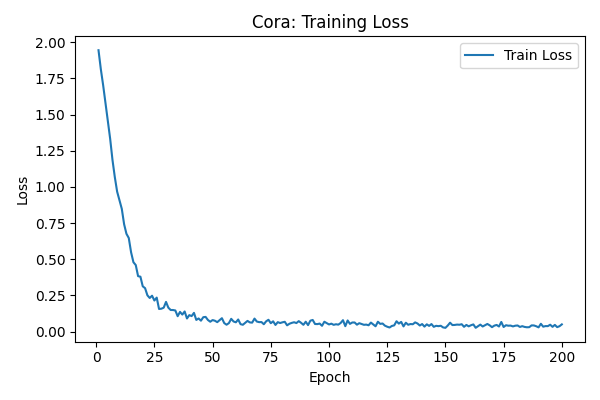
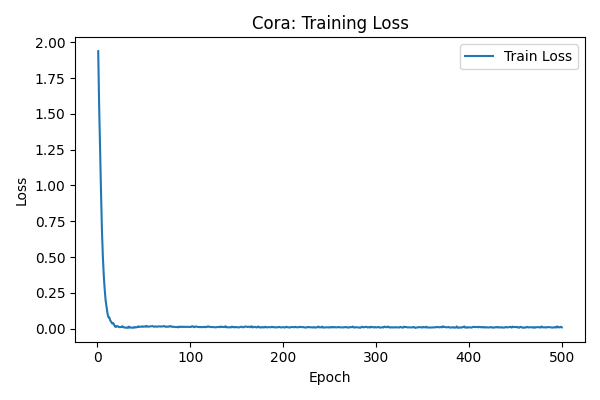
Model Tweaks + Metrics

diff --git a/script/stage_5_code/script_gcn_train.py b/script/stage_5_code/script_gcn_train.py
@@ -61,6 +61,7 @@ import torch.nn as nn
 import torch.optim as optim
 from scipy import sparse
 import matplotlib.pyplot as plt
+from sklearn.metrics import accuracy_score, precision_recall_fscore_support
 
 
 # ─────────────────────────────────────────────────────────────────────
@@ -156,6 +157,9 @@ def train_and_evaluate(
         ],
         lr=learning_rate
     )
+    # scheduler = torch.optim.lr_scheduler.ReduceLROnPlateau(
+    #     optimizer, mode="max", factor=0.5, patience=20
+    # )
 
     # 4) Training loop
     train_loss_history = []
@@ -178,6 +182,7 @@ def train_and_evaluate(
             val_pred   = val_logits[idx_val].max(1)[1]
             correct_val = val_pred.eq(labels[idx_val]).sum().item()
             acc_val     = correct_val / idx_val.shape[0]
+            # scheduler.step(acc_val)
 
         train_loss_history.append(loss.item())
         val_acc_history.append(acc_val)
@@ -192,16 +197,89 @@ def train_and_evaluate(
                 f"Train Loss: {loss.item():.4f} | Val  Acc: {acc_val:.4f}"
             )
 
-    # 5) Load best‐performing weights and evaluate on test set
     model.load_state_dict(best_state)
     model.eval()
     with torch.no_grad():
+        # **ADD THIS**: run the model to get logits on all nodes
         test_logits = model(X_t, A_norm_t)
-        test_pred   = test_logits[idx_test].max(1)[1]
-        correct_test = test_pred.eq(labels[idx_test]).sum().item()
-        test_acc    = correct_test / idx_test.shape[0]
+
+        # now slice out the test‐set predictions
+        test_pred = test_logits[idx_test].max(1)[1]
+        true_test = labels[idx_test]  # ground‐truth labels for the test split
+
+        # 1) Accuracy
+        test_acc = accuracy_score(
+            true_test.cpu().numpy(),
+            test_pred.cpu().numpy()
+        )
+
+        # 2) Weighted precision/recall/F1
+        precision_w, recall_w, f1_w, _ = precision_recall_fscore_support(
+            true_test.cpu().numpy(),
+            test_pred.cpu().numpy(),
+            average="weighted",
+            zero_division=0
+        )
+
+        # 3) Macro precision/recall/F1
+        precision_m, recall_m, f1_m, _ = precision_recall_fscore_support(
+            true_test.cpu().numpy(),
+            test_pred.cpu().numpy(),
+            average="macro",
+            zero_division=0
+        )
+
+        # 4) Micro precision/recall/F1
+        precision_i, recall_i, f1_i, _ = precision_recall_fscore_support(
+            true_test.cpu().numpy(),
+            test_pred.cpu().numpy(),
+            average="micro",
+            zero_division=0
+        )
+
 
     print(f"\n→ [{dataset_name.upper()}] Final Test Accuracy: {test_acc:.4f}\n")
+
+    # Build a simple metrics dict
+    metrics = {
+        "accuracy": test_acc,
+        "weighted": {
+            "precision": precision_w,
+            "recall": recall_w,
+            "f1": f1_w
+        },
+        "macro": {
+            "precision": precision_m,
+            "recall": recall_m,
+            "f1": f1_m
+        },
+        "micro": {
+            "precision": precision_i,
+            "recall": recall_i,
+            "f1": f1_i
+        }
+    }
+
+    # Print out all the requested stats
+    print("************ Overall Performance ************")
+    print(f"Accuracy: {metrics['accuracy']:.4f}\n")
+
+    print("Weighted Metrics:")
+    print(f"Precision: {metrics['weighted']['precision']:.4f}")
+    print(f"Recall:    {metrics['weighted']['recall']:.4f}")
+    print(f"F1-score:  {metrics['weighted']['f1']:.4f}\n")
+
+    print("Macro Metrics:")
+    print(f"Precision: {metrics['macro']['precision']:.4f}")
+    print(f"Recall:    {metrics['macro']['recall']:.4f}")
+    print(f"F1-score:  {metrics['macro']['f1']:.4f}\n")
+
+    print("Micro Metrics:")
+    print(f"Precision: {metrics['micro']['precision']:.4f}")
+    print(f"Recall:    {metrics['micro']['recall']:.4f}")
+    print(f"F1-score:  {metrics['micro']['f1']:.4f}\n")
+
+    print("************ Finish ************")
 
     # 6) Plot + save learning curves
     epochs = np.arange(1, num_epochs + 1)
@@ -247,11 +325,15 @@ if __name__ == "__main__":
         required=True,
         help="Which dataset to train on: 'cora', 'citeseer', or 'pubmed'."
     )
+    default_data_dir = os.path.join(PROJECT_ROOT, "data", "stage_5_data")
     parser.add_argument(
         "--data_dir",
         type=str,
-        default="data",
-        help="Path to the directory containing 'cora/', 'citeseer/', 'pubmed/'."
+        default=default_data_dir,  # ← Make sure this is exactly as shown
+        help=(
+            "Path to directory containing 'cora', 'citeseer', 'pubmed' subfolders. "
+            f"Default is '{default_data_dir}'."
+        )
     )
     parser.add_argument(
         "--hidden_dim", type=int, default=16,

diff --git a/local_code/stage_5_code/Dataset_Loader_Node_Classification.py b/local_code/stage_5_code/Dataset_Loader_Node_Classification.py
@@ -77,18 +77,80 @@ class Dataset_Loader(object):
 
         # the following part, you can either put them into the setting class or you can leave them in the dataset loader
         # the following train, test, val index are just examples, sample the train, test according to project requirements
+        idx_val = None
         if self.dataset_name == 'cora':
             idx_train = range(140)
-            idx_test = range(200, 1200)
-            idx_val = range(1200, 1500)
-        elif self.dataset_name == 'citeseer':
-            idx_train = range(120)
-            idx_test = range(200, 1200)
-            idx_val = range(1200, 1500)
-        elif self.dataset_name == 'pubmed':
-            idx_train = range(60)
-            idx_test = range(6300, 7300)
-            idx_val = range(6000, 6300)
+            idx_val   = range(200, 500)
+            idx_test  = range(500, 1500)
+
+
+        elif self.dataset_name == "citeseer":
+
+            labels_np = labels.numpy()
+
+            num_classes = int(labels.max().item()) + 1
+
+            rng = np.random.RandomState(self.seed)
+
+            all_indices = np.arange(labels_np.shape[0])
+
+            # 1) pick 20 nodes per class → 120 total train
+
+            train_list = []
+
+            for cls in range(num_classes):
+                cls_nodes = np.where(labels_np == cls)[0]
+
+                rng.shuffle(cls_nodes)
+
+                train_list.append(cls_nodes[:20])
+
+            train_idx = np.hstack(train_list)
+
+            # 2) pool = everything except the 120 train nodes
+
+            pool = np.setdiff1d(all_indices, train_idx, assume_unique=True)
+
+            rng.shuffle(pool)
+
+            # 3) from pool: 500 for val, then 1200 for test
+
+            val_idx = pool[:500]
+
+            test_idx = pool[500:500 + 1200]
+
+            idx_train = train_idx
+
+            idx_val = val_idx
+
+            idx_test = test_idx
+
+        elif self.dataset_name == "pubmed":
+            labels_np = labels.numpy()
+            num_classes = int(labels.max().item()) + 1
+            rng = np.random.RandomState(self.seed)
+            all_indices = np.arange(labels_np.shape[0])
+
+                # 1) pick 20 nodes per class for train (60 total)
+            train_list = []
+            for cls in range(num_classes):
+                cls_nodes = np.where(labels_np == cls)[0]
+                rng.shuffle(cls_nodes)
+                train_list.append(cls_nodes[:20])
+            train_idx = np.hstack(train_list)
+
+                # 2) remove training nodes from pool
+            pool = np.setdiff1d(all_indices, train_idx, assume_unique=True)
+            rng.shuffle(pool)
+
+                # 3) from the pool, take next 500 for val, next 600 for test
+            val_idx = pool[:500]
+            test_idx = pool[500:1100]
+
+            idx_train = torch.LongTensor(train_idx.tolist())
+            idx_val = torch.LongTensor(val_idx.tolist())
+            idx_test = torch.LongTensor(test_idx.tolist())
+
         #---- cora-small is a toy dataset I hand crafted for debugging purposes ---
         elif self.dataset_name == 'cora-small':
             idx_train = range(5)
@@ -99,11 +161,12 @@ class Dataset_Loader(object):
         idx_val = torch.LongTensor(idx_val)
         idx_test = torch.LongTensor(idx_test)
         # get the training nodes/testing nodes
-        # train_x = features[idx_train]
-        # val_x = features[idx_val]
-        # test_x = features[idx_test]
-        # print(train_x, val_x, test_x)
+        train_x = features[idx_train]
+        val_x = features[idx_val]
+        test_x = features[idx_test]
+        print(train_x, val_x, test_x)
 
         train_test_val = {'idx_train': idx_train, 'idx_test': idx_test, 'idx_val': idx_val}
-        graph = {'node': idx_map, 'edge': edges, 'X': features, 'y': labels, 'utility': {'A': adj, 'reverse_idx': reverse_idx_map}}
+        graph = {'node': idx_map, 'edge': edges, 'X': features, 'y': labels,
+                 'utility': {'A': adj, 'reverse_idx': reverse_idx_map}}
         return {'graph': graph, 'train_test_val': train_test_val}

diff --git a/local_code/stage_5_code/GCN.py b/local_code/stage_5_code/GCN.py
@@ -36,7 +36,7 @@ class GCNLayer(nn.Module):
             nn.init.zeros_(self.bias)
 
     def forward(self, X: torch.FloatTensor, A_norm: torch.sparse.FloatTensor) -> torch.FloatTensor:
-        """
+        """a
         Forward pass of a single GCN layer.
 
         Args:
